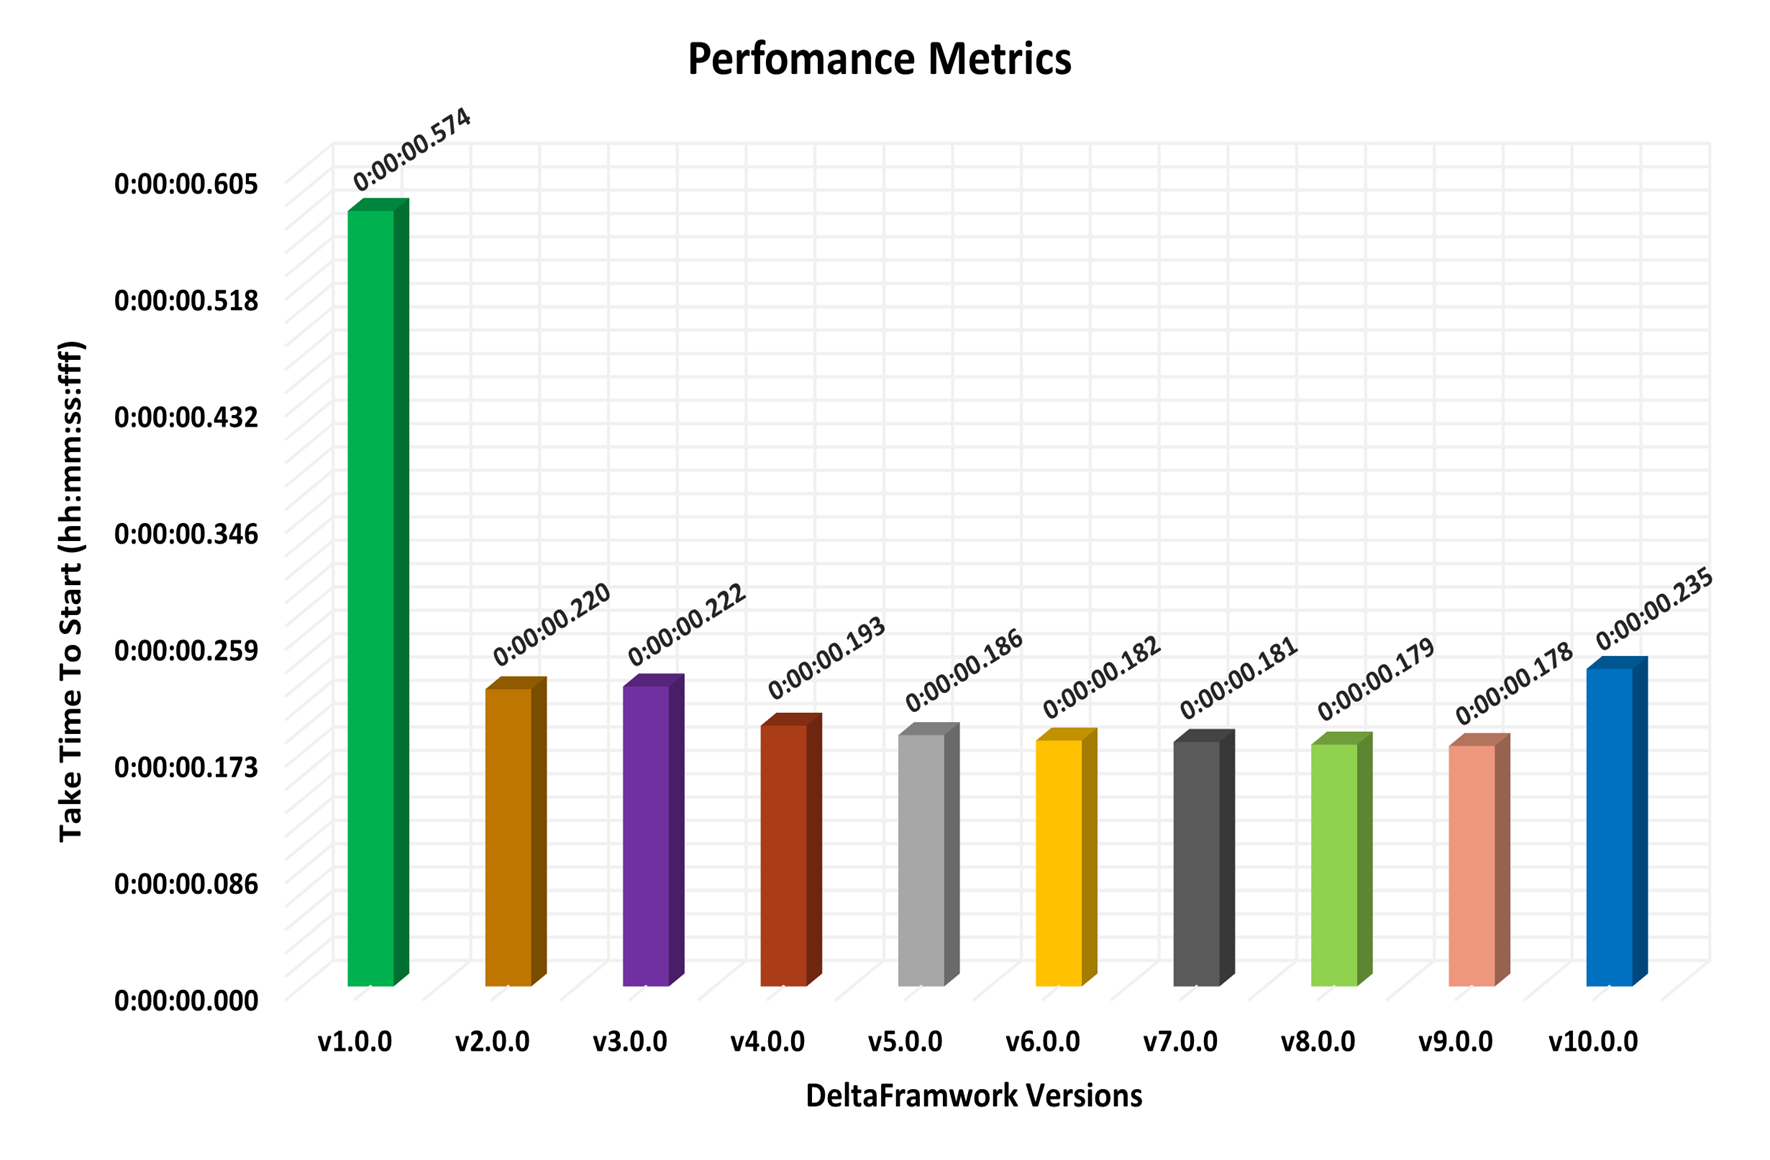
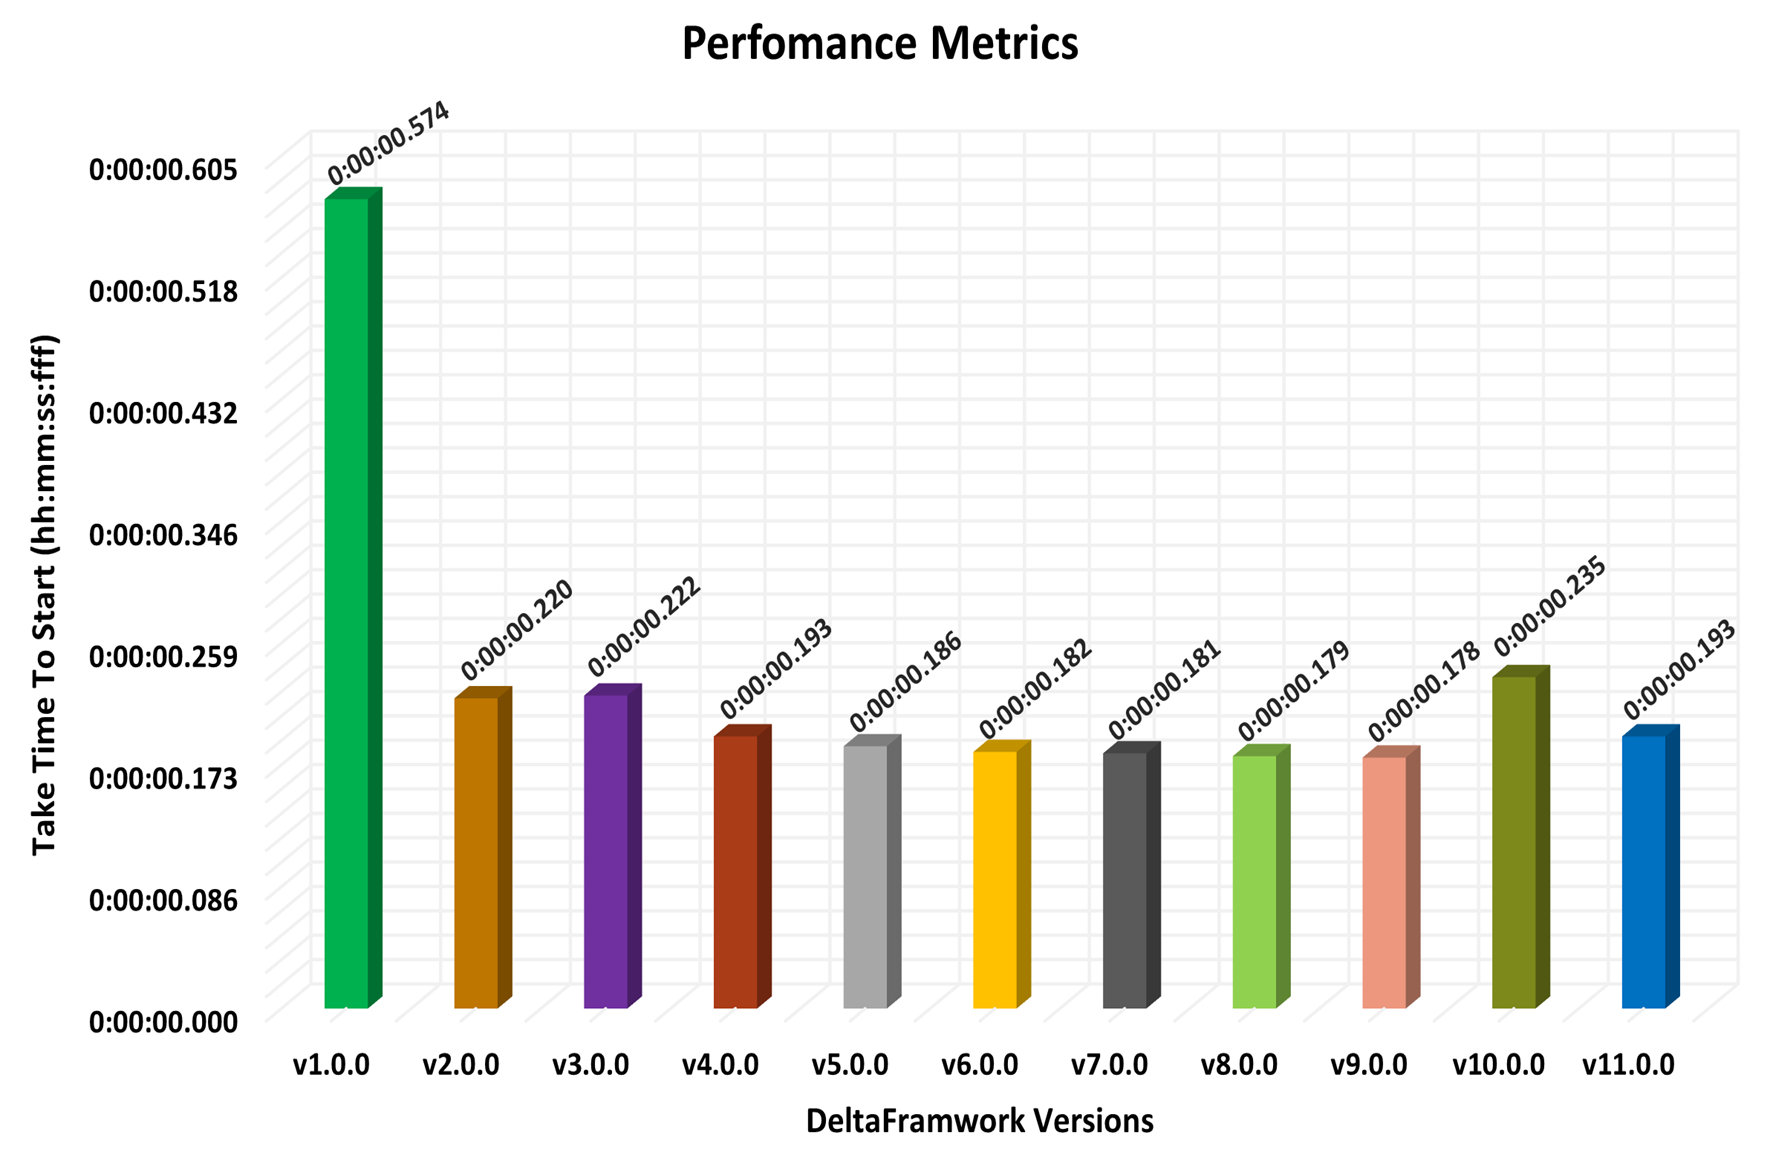
Upload v5.0.0

diff --git a/index.html b/index.html
@@ -54,6 +54,9 @@
                         <div id="logo">
                             <h1><a href="https://www.deltaframework.net" target="_self" style="-webkit-tap-highlight-color: transparent;" class="confirm_selection">DeltaFramework</a></h1>
                             <br>
+                            <span style="padding: 0px 0px 5px 0px;display:none">
+                                Designed for AI, built for enterprise scale.<br>
+                            </span>
                             <span style="padding: 0px 0px 5px 0px;">
                                 <a id="author" href="https://www.thirufactory.com" target="_blank">
                                     Author: Thiruvarasamurthy G
@@ -82,16 +85,15 @@
                             </div>
 
                             <a title="DeltaFramework" class="bannerimage hidelinkself" onclick="changeMovableHeader()">
-                                <img id="image-nospin" style="pointer-events:none" src="images/DeltaFramework.png" alt="" width="60" height="60" onclick="changeMovableHeader()" />
+                                <img id="image-nospin" style="pointer-events:none" src="images/DeltaFramework.gif" alt="" width="100" height="100" onclick="changeMovableHeader()" />
                             </a><br>
-
-                            <p style="text-shadow: 1px 1px 1px #f3f3f3; display: none;">
+                            <p style=" text-shadow: 1px 1px 1px #f3f3f3; display: none;">
                                 <b>
+                                    Designed for AI, built for enterprise scale.
                                     A cutting-edge, modern and robust software creation bundle.
                                     It offers advanced Architecture Styles, Frameworks, Libraries and Project Templates will accelerate the projects.
                                 </b>
                             </p>
-
                             <a title="DeltaFramework" class="bannerimage hidelinkself">
                                 <img id="imageBox" style="pointer-events: none;margin-top:20px" src="images/DeltaFramework-Box.png" alt="DeltaFramework-Box" width="550" height="750" />
                             </a>
@@ -124,6 +126,39 @@
 
                                             <h3 class="card-item-new-message">
                                                 A cutting-edge, modern and robust software creation bundle. It offers advanced Architecture Styles, Frameworks, Libraries and Project Templates will accelerate the projects.
+                                            </h3>
+                                        </div>
+
+                                        <div class="card-item swiper-slide">
+                                            <a title="Modernization" class="bannerimage hidelinkself">
+                                                <img src="images/TechIcon/Modernization.png" alt="Modernization" title="Modernization" width="54" height="52" style="background-color: #fff; padding: 5px; border-radius: 5px;margin-bottom:5px" />&nbsp;
+                                            </a>
+                                            <p class="card-item-new-message-header">Modernization</p>
+
+                                            <h3 class="card-item-new-message">
+                                                Framework harnesses modern concepts and technologies to build contemporary applications and projects. It transforms legacy systems into agile, scalable solutions for enterprise.
+                                            </h3>
+                                        </div>
+
+                                        <div class="card-item swiper-slide">
+                                            <a title="Ai Driven" class="bannerimage hidelinkself">
+                                                <img src="images/TechIcon/AiDriven.png" alt="AiDriven" title="AiDriven" width="54" height="52" style="background-color: #fff; padding: 5px; border-radius: 5px;margin-bottom:5px" />&nbsp;
+                                            </a>
+                                            <p class="card-item-new-message-header">AI Driven</p>
+
+                                            <h3 class="card-item-new-message">
+                                                Framework seamlessly understood by AI agents and tools, enabling rapid, high‑quality feature creation with smarter innovation, delivering speed and excellence at scale.
+                                            </h3>
+                                        </div>
+
+                                        <div class="card-item swiper-slide">
+                                            <a title="Enterprise" class="bannerimage hidelinkself">
+                                                <img src="images/TechIcon/Enterprise.png" alt="Enterprise" title="Enterprise" width="54" height="52" style="background-color: #fff; padding: 5px; border-radius: 5px;margin-bottom:5px" />&nbsp;
+                                            </a>
+                                            <p class="card-item-new-message-header">Enterprise</p>
+
+                                            <h3 class="card-item-new-message">
+                                                A robust, scalable foundation for enterprise-level applications and projects. It delivers architecture, modular components, and tools for integration, security, and performance
                                             </h3>
                                         </div>
 
@@ -261,13 +296,13 @@
                                         </div>
 
                                         <div class="card-item swiper-slide">
-                                            <a title="FragmentConfigs" class="bannerimage hidelinkself">
-                                                <img src="images/TechIcon/FragmentConfigs.png" alt="FragmentConfigs" title="FragmentConfigs" width="54" height="52" style="background-color: #fff; padding: 5px; border-radius: 5px; margin-bottom: 5px " />&nbsp;
+                                            <a title="MultiSourceConfig" class="bannerimage hidelinkself">
+                                                <img src="images/TechIcon/MultiSourceConfig.png" alt="MultiSourceConfig" title="MultiSourceConfig" width="54" height="52" style="background-color: #fff; padding: 5px; border-radius: 5px; margin-bottom: 5px " />&nbsp;
                                             </a>
-                                            <p class="card-item-new-message-header">Fragment Configs</p>
+                                            <p class="card-item-new-message-header">MultiSource Config</p>
 
                                             <h3 class="card-item-new-message">
-                                                Fragment configuration files allow splitting application configurations into multiple, manageable sections, improving organization, readability and easier updates.
+                                                MultiSource configuration files allows application get configurations from multiple source such as fragmented files, environment variables and direct memory.
                                             </h3>
                                         </div>
 
@@ -411,6 +446,28 @@
 
                                             <h3 class="card-item-new-message">
                                                 Background jobs enable tasks to run asynchronously or on a schedule, offloading intensive processes from the main application. It improves performance in background.
+                                            </h3>
+                                        </div>
+
+                                        <div class="card-item swiper-slide">
+                                            <a title="BackgroundJobsHub" class="bannerimage hidelinkself">
+                                                <img src="images/TechIcon/BackgroundJobHub.png" alt="BackgroundJobsHub" title="BackgroundJobsHub" width="54" height="52" style="background-color: #fff; padding: 5px; border-radius: 5px; margin-bottom: 5px " />&nbsp;
+                                            </a>
+                                            <p class="card-item-new-message-header">BackgroundJob Hub</p>
+
+                                            <h3 class="card-item-new-message">
+                                                The Background Jobs Hub provides a centralized way to monitor and control jobs. Instantly view job statuses, with built‑in support to pause and resume as needed.
+                                            </h3>
+                                        </div>
+
+                                        <div class="card-item swiper-slide">
+                                            <a title="ContextAccessor" class="bannerimage hidelinkself">
+                                                <img src="images/TechIcon/ContextAccessor.png" alt="ContextAccessor" title="ContextAccessor" width="54" height="52" style="background-color: #fff; padding: 5px; border-radius: 5px; margin-bottom: 5px " />&nbsp;
+                                            </a>
+                                            <p class="card-item-new-message-header">Context Accessor</p>
+
+                                            <h3 class="card-item-new-message">
+                                                Context Accessor centralizes and streamlines access to real‑time user details, client information, and security data, bringing everything together in one unified place.
                                             </h3>
                                         </div>
 
@@ -685,7 +742,7 @@
                                     <h2><img src="images/TechIcon/Performance.png" alt="Performance" title="Performance" width="27" height="25" /> Performance Insight</h2>
                                     <p>
                                         <b>
-                                            DeltaFramework Library is meticulously designed for high-performance, offering an array of built-in features while consistently maintaining high efficiency.
+                                            The design goal of the DeltaFramework startup duration is below 1000 Milliseconds. It is meticulously designed for high-performance, offering an array of built-in features while consistently maintaining high efficiency.
                                             Each version aims to elevate user experience and streamline application development, ensuring optimal functionality and responsiveness.
                                             Below is a comparison of different library versions.
                                         </b>
@@ -706,9 +763,9 @@
                                     <h2><img src="images/TechIcon/Performance.png" alt="Performance" title="Performance" width="27" height="25" /> Performance Insight</h2>
                                     <p>
                                         <b>
-                                            DeltaFramework Library v9.0.0 version offers significant performance enhancements, numerous built-in features, and optimized efficiency. Dive into the detailed performance insights to understand how DeltaFramework continues to set new standards in high-performance design. <br>
+                                            DeltaFramework library v11.0.0 version offers significant performance enhancements, numerous built-in features, and optimized efficiency. Dive into the detailed multiple rounds of performance insights to understand how DeltaFramework continues to set new standards in high-performance design. <br>
                                             Startup Duration: <span style="color:#C70039;">
-                                                235 Milliseconds
+                                                193 Milliseconds
                                                 <img src="images/TechIcon/Fire.gif" alt="🔥" width="22" height="22">
                                                 <img src="images/TechIcon/Rocket.gif" alt="🚀" width="22" height="22">
                                             </span>
@@ -828,7 +885,7 @@
                                 <div class="slider-wrapper">
                                     <div class="card-list-center swiper-wrapper">
                                         <div class="card-item-center swiper-slide">
-                                            <p class="card-item-new-message-header">DeltaFramework v10.2.0 released</p>
+                                            <p class="card-item-new-message-header">DeltaFramework v11.0.0 released</p>
                                         </div>
                                         <div class="card-item-center swiper-slide">
                                             <p class="card-item-new-message-header">MCP Integrated and supports MultiAuthentication</p>
@@ -837,17 +894,23 @@
                                             <p class="card-item-new-message-header">Added built-in Mapper, Mediator, Validator</p>
                                         </div>
                                         <div class="card-item-center swiper-slide">
+                                            <p class="card-item-new-message-header">Added BackgroundService, SSE(Server-Send Events), Resilience </p>
+                                        </div>
+                                        <div class="card-item-center swiper-slide">
+                                            <p class="card-item-new-message-header">Added ContextAccessor, Configuration</p>
+                                        </div>
+                                        <div class="card-item-center swiper-slide">
                                             <p class="card-item-new-message-header">Added new plugin for Quantum Computing operations</p>
                                         </div>
                                         <div class="card-item-center swiper-slide">
                                             <p class="card-item-new-message-header">WIP: Next DeltaFramework version</p>
                                         </div>
                                         <!--<div class="card-item swiper-slide">
-                                            <img src="images/img-2.jpg" alt="card Image" class="card-image">
-                                            <h2 class="card-name">Sarah Johnson</h2>
-                                            <p class="card-profession">Graphic Designer</p>
-                                            <button class="message-button">Message</button>
-                                        </div>-->
+        <img src="images/img-2.jpg" alt="card Image" class="card-image">
+        <h2 class="card-name">Sarah Johnson</h2>
+        <p class="card-profession">Graphic Designer</p>
+        <button class="message-button">Message</button>
+    </div>-->
                                     </div>
 
                                     <div class="swiper-pagination" style="font:1px"></div>
@@ -950,11 +1013,11 @@
                                     <!--Designed by Thiruvarasamurthy G-->
                                     <div id="copyrightMessage">Copyright &copy; DeltaFramework 2024 - </div>
                                     DeltaFramework Release Info:<br>
-                                    Version: 10.2.0
-                                    Date: November 03, 2025<br>
+                                    Version: 11.0.0
+                                    Date: December 22, 2025<br>
                                     Website Release Info:<br>
-                                    Version: 4.0.0
-                                    Date: November 04, 2025<br>
+                                    Version: 5.0.0
+                                    Date: December 24, 2025<br>
                                     All rights reserved<br>
                                     <a class="hidelink" style="display: inline-block; margin: 0px 0px 0px 0px; text-decoration: none; -webkit-tap-highlight-color: transparent;" href="info.html" title="Credits" target="_blank"> Credits </a> |
                                     <a class="hidelink" style="display: inline-block; margin: 0px 0px 0px 0px; text-decoration: none; -webkit-tap-highlight-color: transparent;" href="fireworks.html" title="Events" target="_blank"> Events </a>
